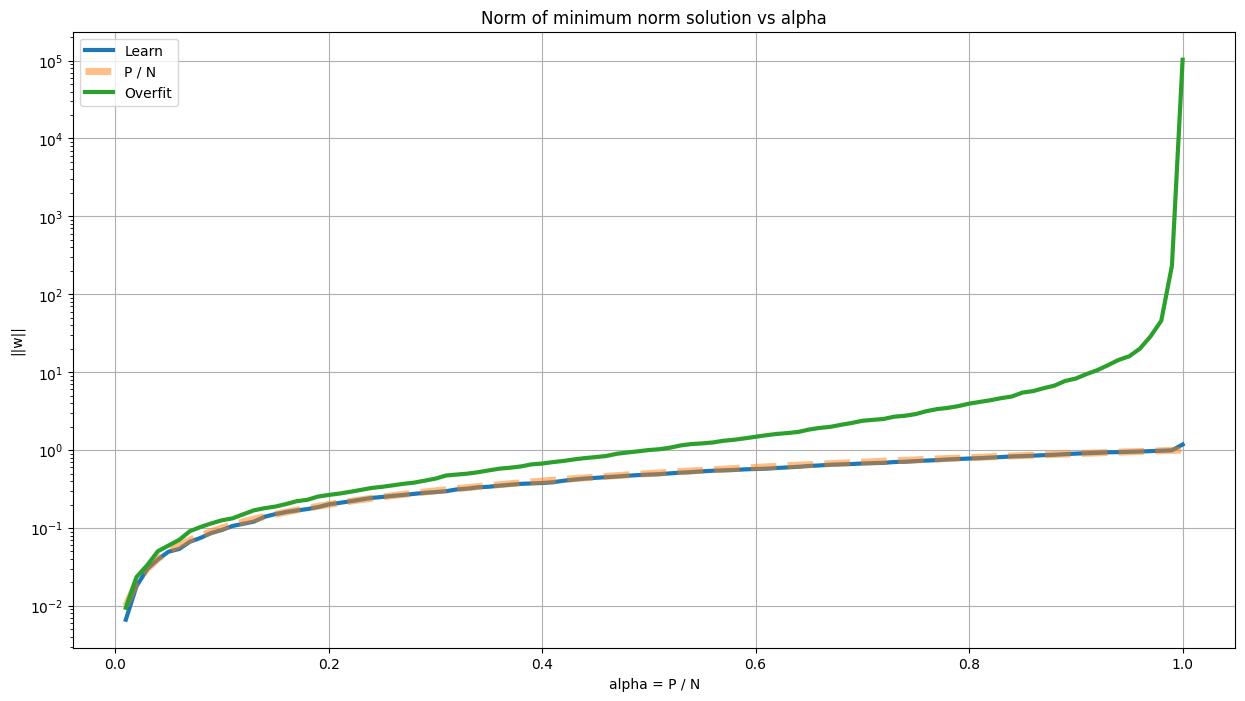
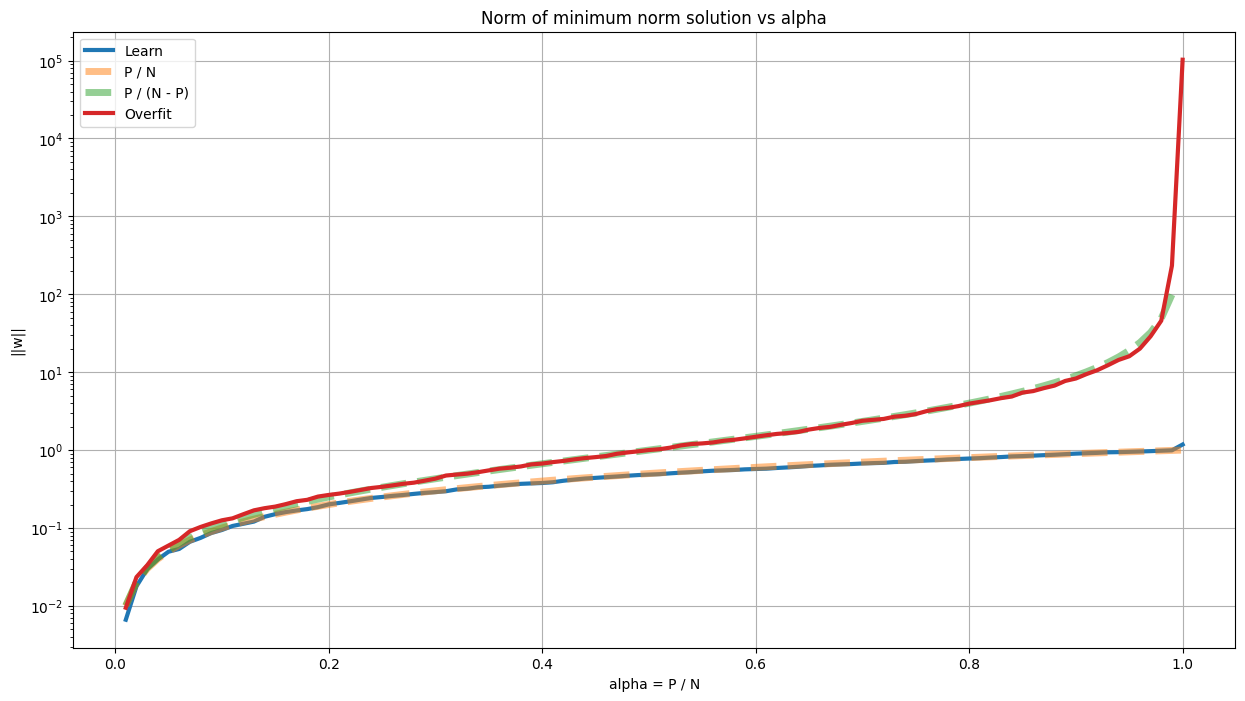
blogpost

diff --git a/blog/post1.html b/blog/post1.html
@@ -121,6 +121,9 @@ $$
     \sim 
     \mathcal N(\mathbf 0, \mathbf I_P \otimes \mathbf I_N)
 } \left[ \sum_{i=1}^P \frac{1}{\lambda_i(\mathbf X \mathbf X^\top)} \right] 
+= 
+\mathbb E
+\text{tr}\left(  (\mathbf X \mathbf X^\top)^{-1} \right )
  = \frac{P}{N - P}
 \end{align*}
 $$ 
@@ -245,3 +248,35 @@ $$
 \frac{P}{N} \sim \frac{P}{N - P}
 $$
 which is consistent with the behavior represented in Figure 1.
+
+<h3> Neural Networks are not Linear Models </h3>
+
+Let us consider the gradient descent dynamics with random targets, where we imagine
+that each sample \(\boldsymbol x_i\) is presented in an online fashion only one time, 
+such that we may assume that \(\boldsymbol \theta\) and \(\boldsymbol x_i\) are independent. 
+
+
+$$
+\begin{align*}
+\mathbb E
+\nabla_{\boldsymbol \theta} \ell(\boldsymbol \theta, \boldsymbol x_i, y^{overfit}_i)
+& = 
+\mathbb E
+    \left( f(\boldsymbol x_i; \boldsymbol \theta) - y^{overfit}_i \right)
+    \nabla_{\boldsymbol \theta} f(\boldsymbol x_i; \boldsymbol \theta)
+\\
+& = 
+     f(\boldsymbol x_i; \boldsymbol \theta)
+    \nabla_{\boldsymbol \theta} f(\boldsymbol x_i; \boldsymbol \theta)
+\\
+& = 
+    \nabla_{\boldsymbol \theta} f^2(\boldsymbol x_i; \boldsymbol \theta)
+    \end{align*}
+$$
+
+<h3> Discussion </h3>
+
+We have shown a simple proof of concept of the behavior of parameter norms in linear models. 
+Somehow, the interpretation of the norm as a capacity metric is justified by our experiment; 
+when data has no structure, the model has to converge to high complexity solutions in order to interpolate 
+the data correctly.
